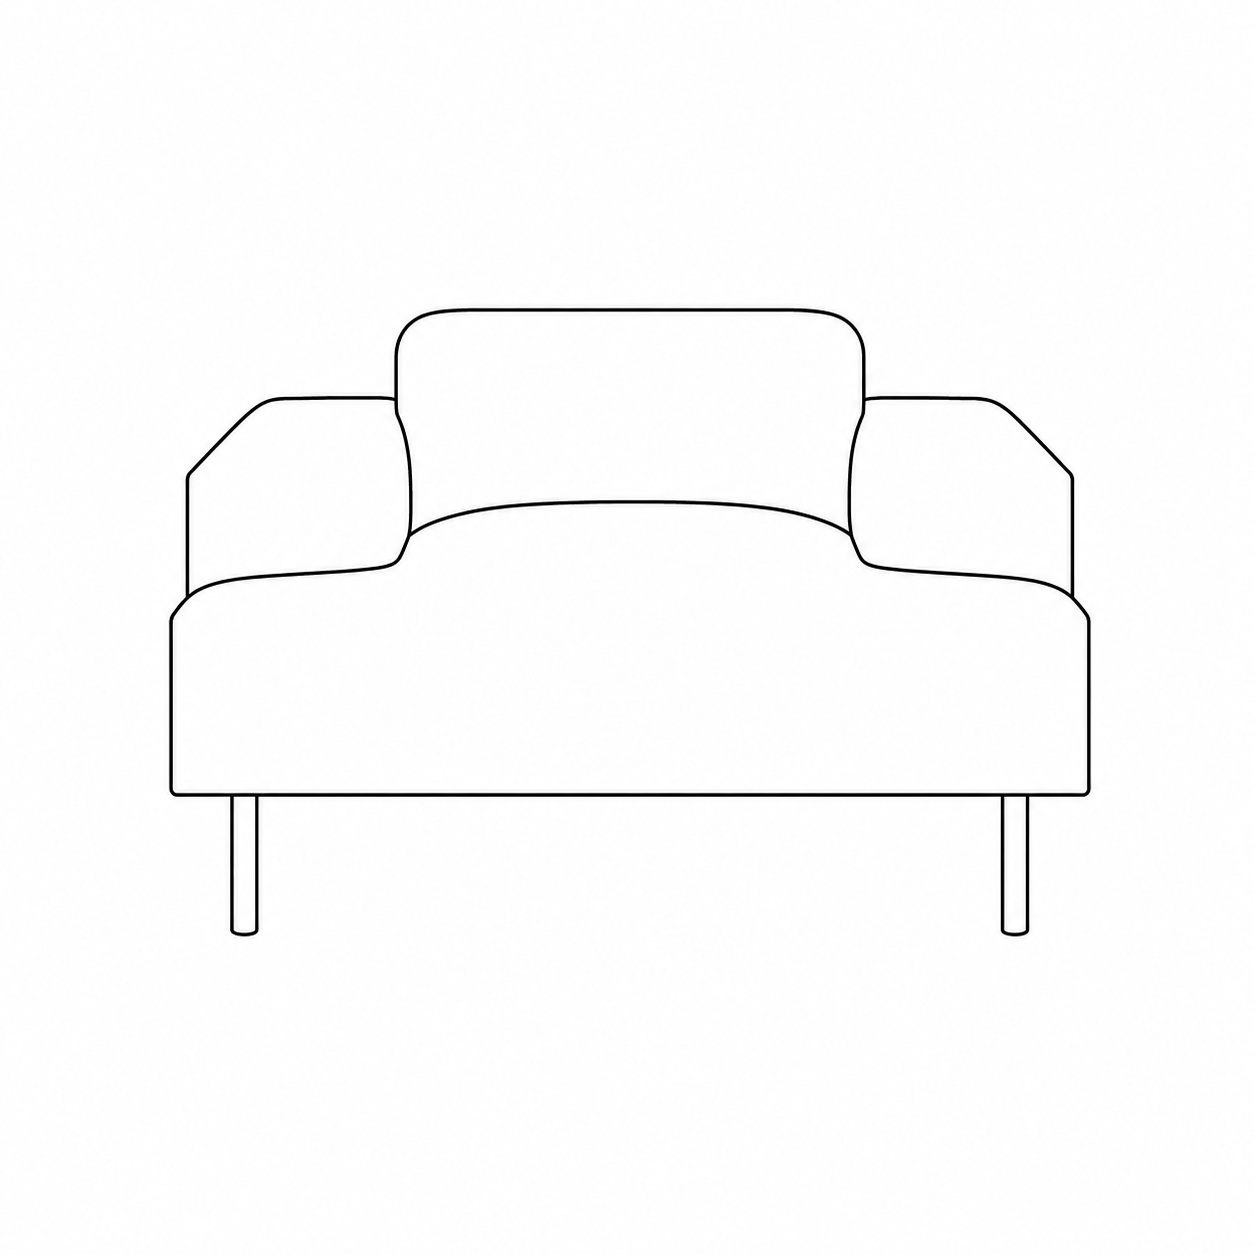
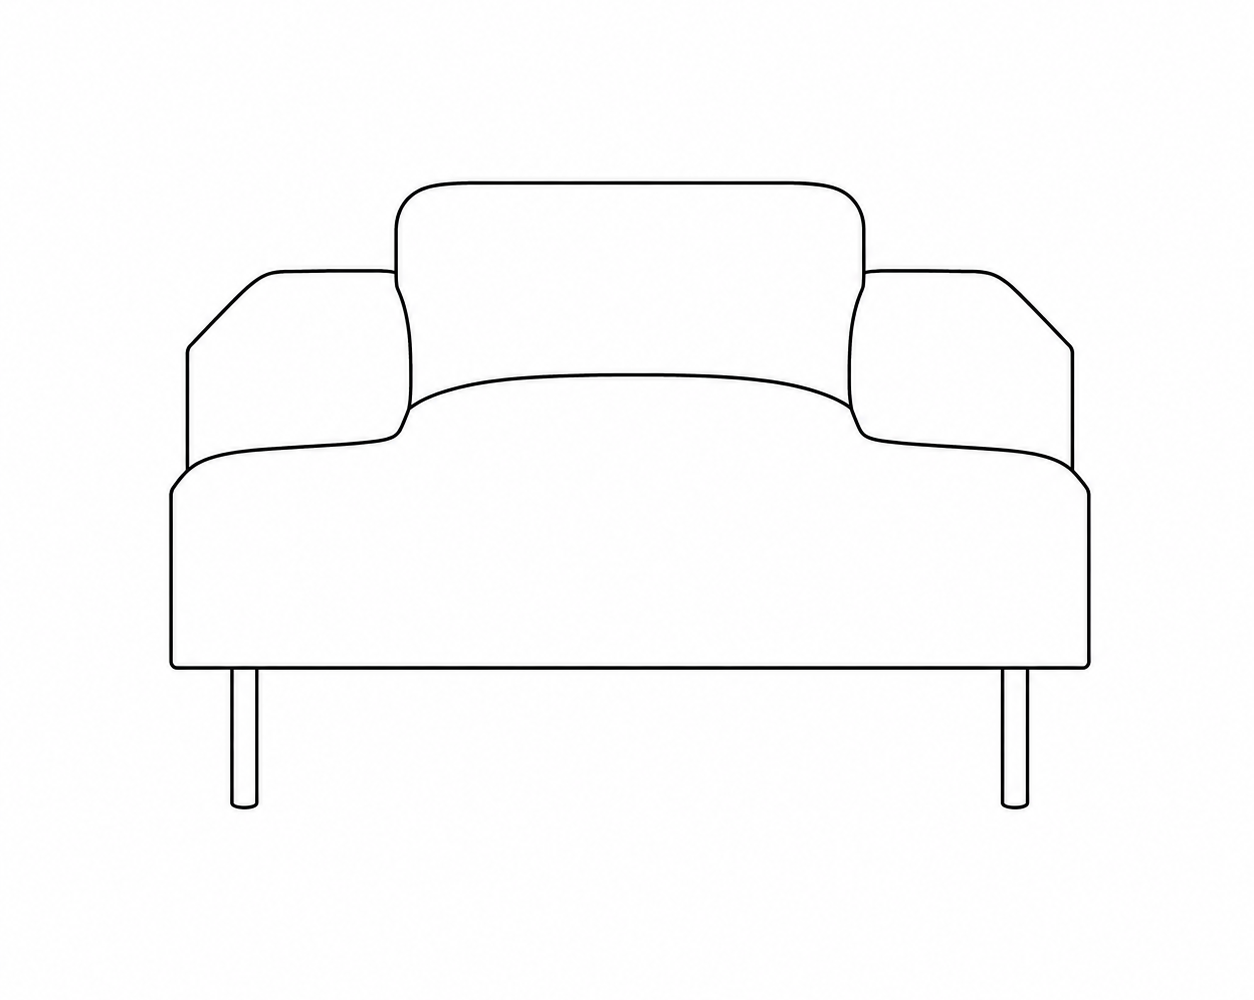
Use left-arm configuration images

diff --git a/index.html b/index.html
@@ -1426,6 +1426,7 @@
       const placeholder = document.getElementById(`${name}Placeholder`);
       const text = image?.parentElement.querySelector("span");
       const nextSrc = normalizeImageUrl(src || fallbackSrc);
+      const fallback = normalizeImageUrl(fallbackSrc);
 
       if (!image) return;
 
@@ -1441,6 +1442,10 @@
 
       image.onerror = () => {
         image.onerror = null;
+        if (fallback && fallback !== nextSrc) {
+          image.src = fallback;
+          return;
+        }
         image.removeAttribute("src");
         image.hidden = true;
         if (placeholder) placeholder.hidden = false;
@@ -1466,8 +1471,12 @@
 
       if (!image || image.dataset.manualUpload === "true") return;
       image.classList.toggle("fill", Boolean(values.productImageUrl));
-      const configImage = configCatalog.find((item) => item.label === values.config)?.image || "";
-      setImageBox("productImage", values.productImageUrl || configImage);
+      const configItem = configCatalog.find((item) => item.label === values.config);
+      const configImage = configItem?.image || "";
+      const leftConfigImage = configItem && normalizeArmrestInput(values.armrest) === "왼쪽"
+        ? `assets/configs/${configItem.code}-L.png`
+        : "";
+      setImageBox("productImage", values.productImageUrl || leftConfigImage || configImage, configImage);
     }
 
     function updateOptionImages() {